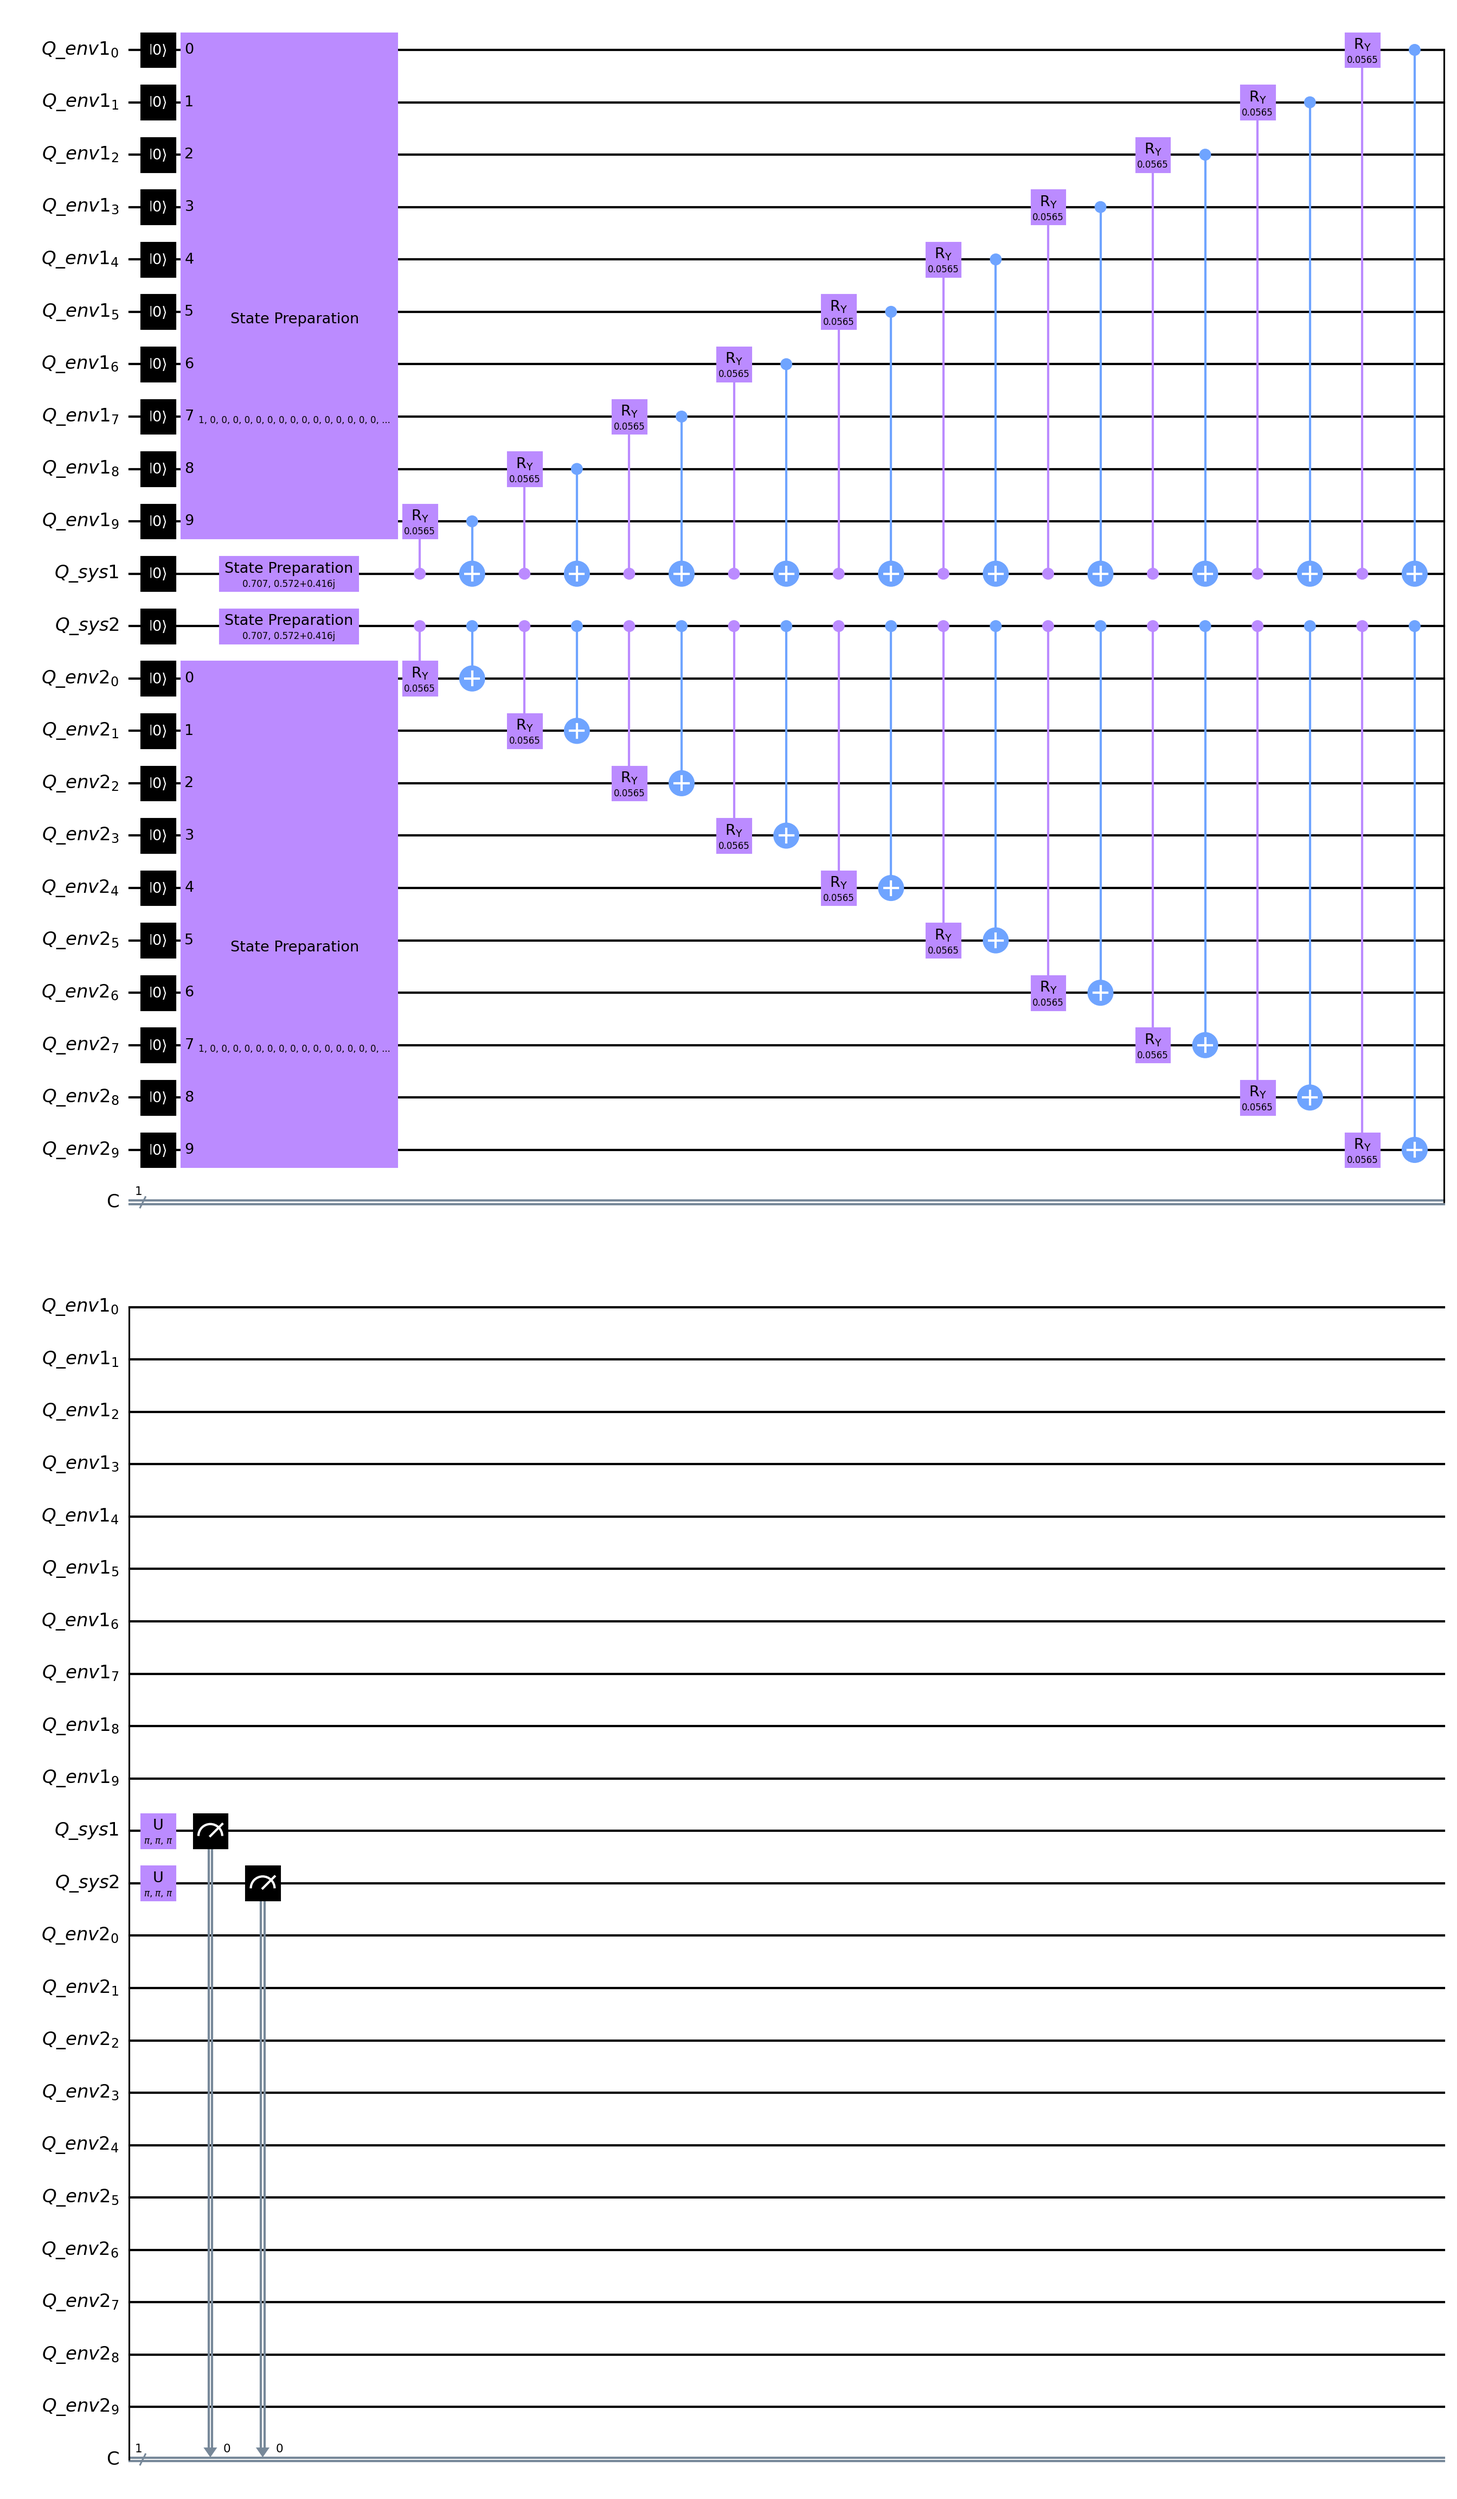
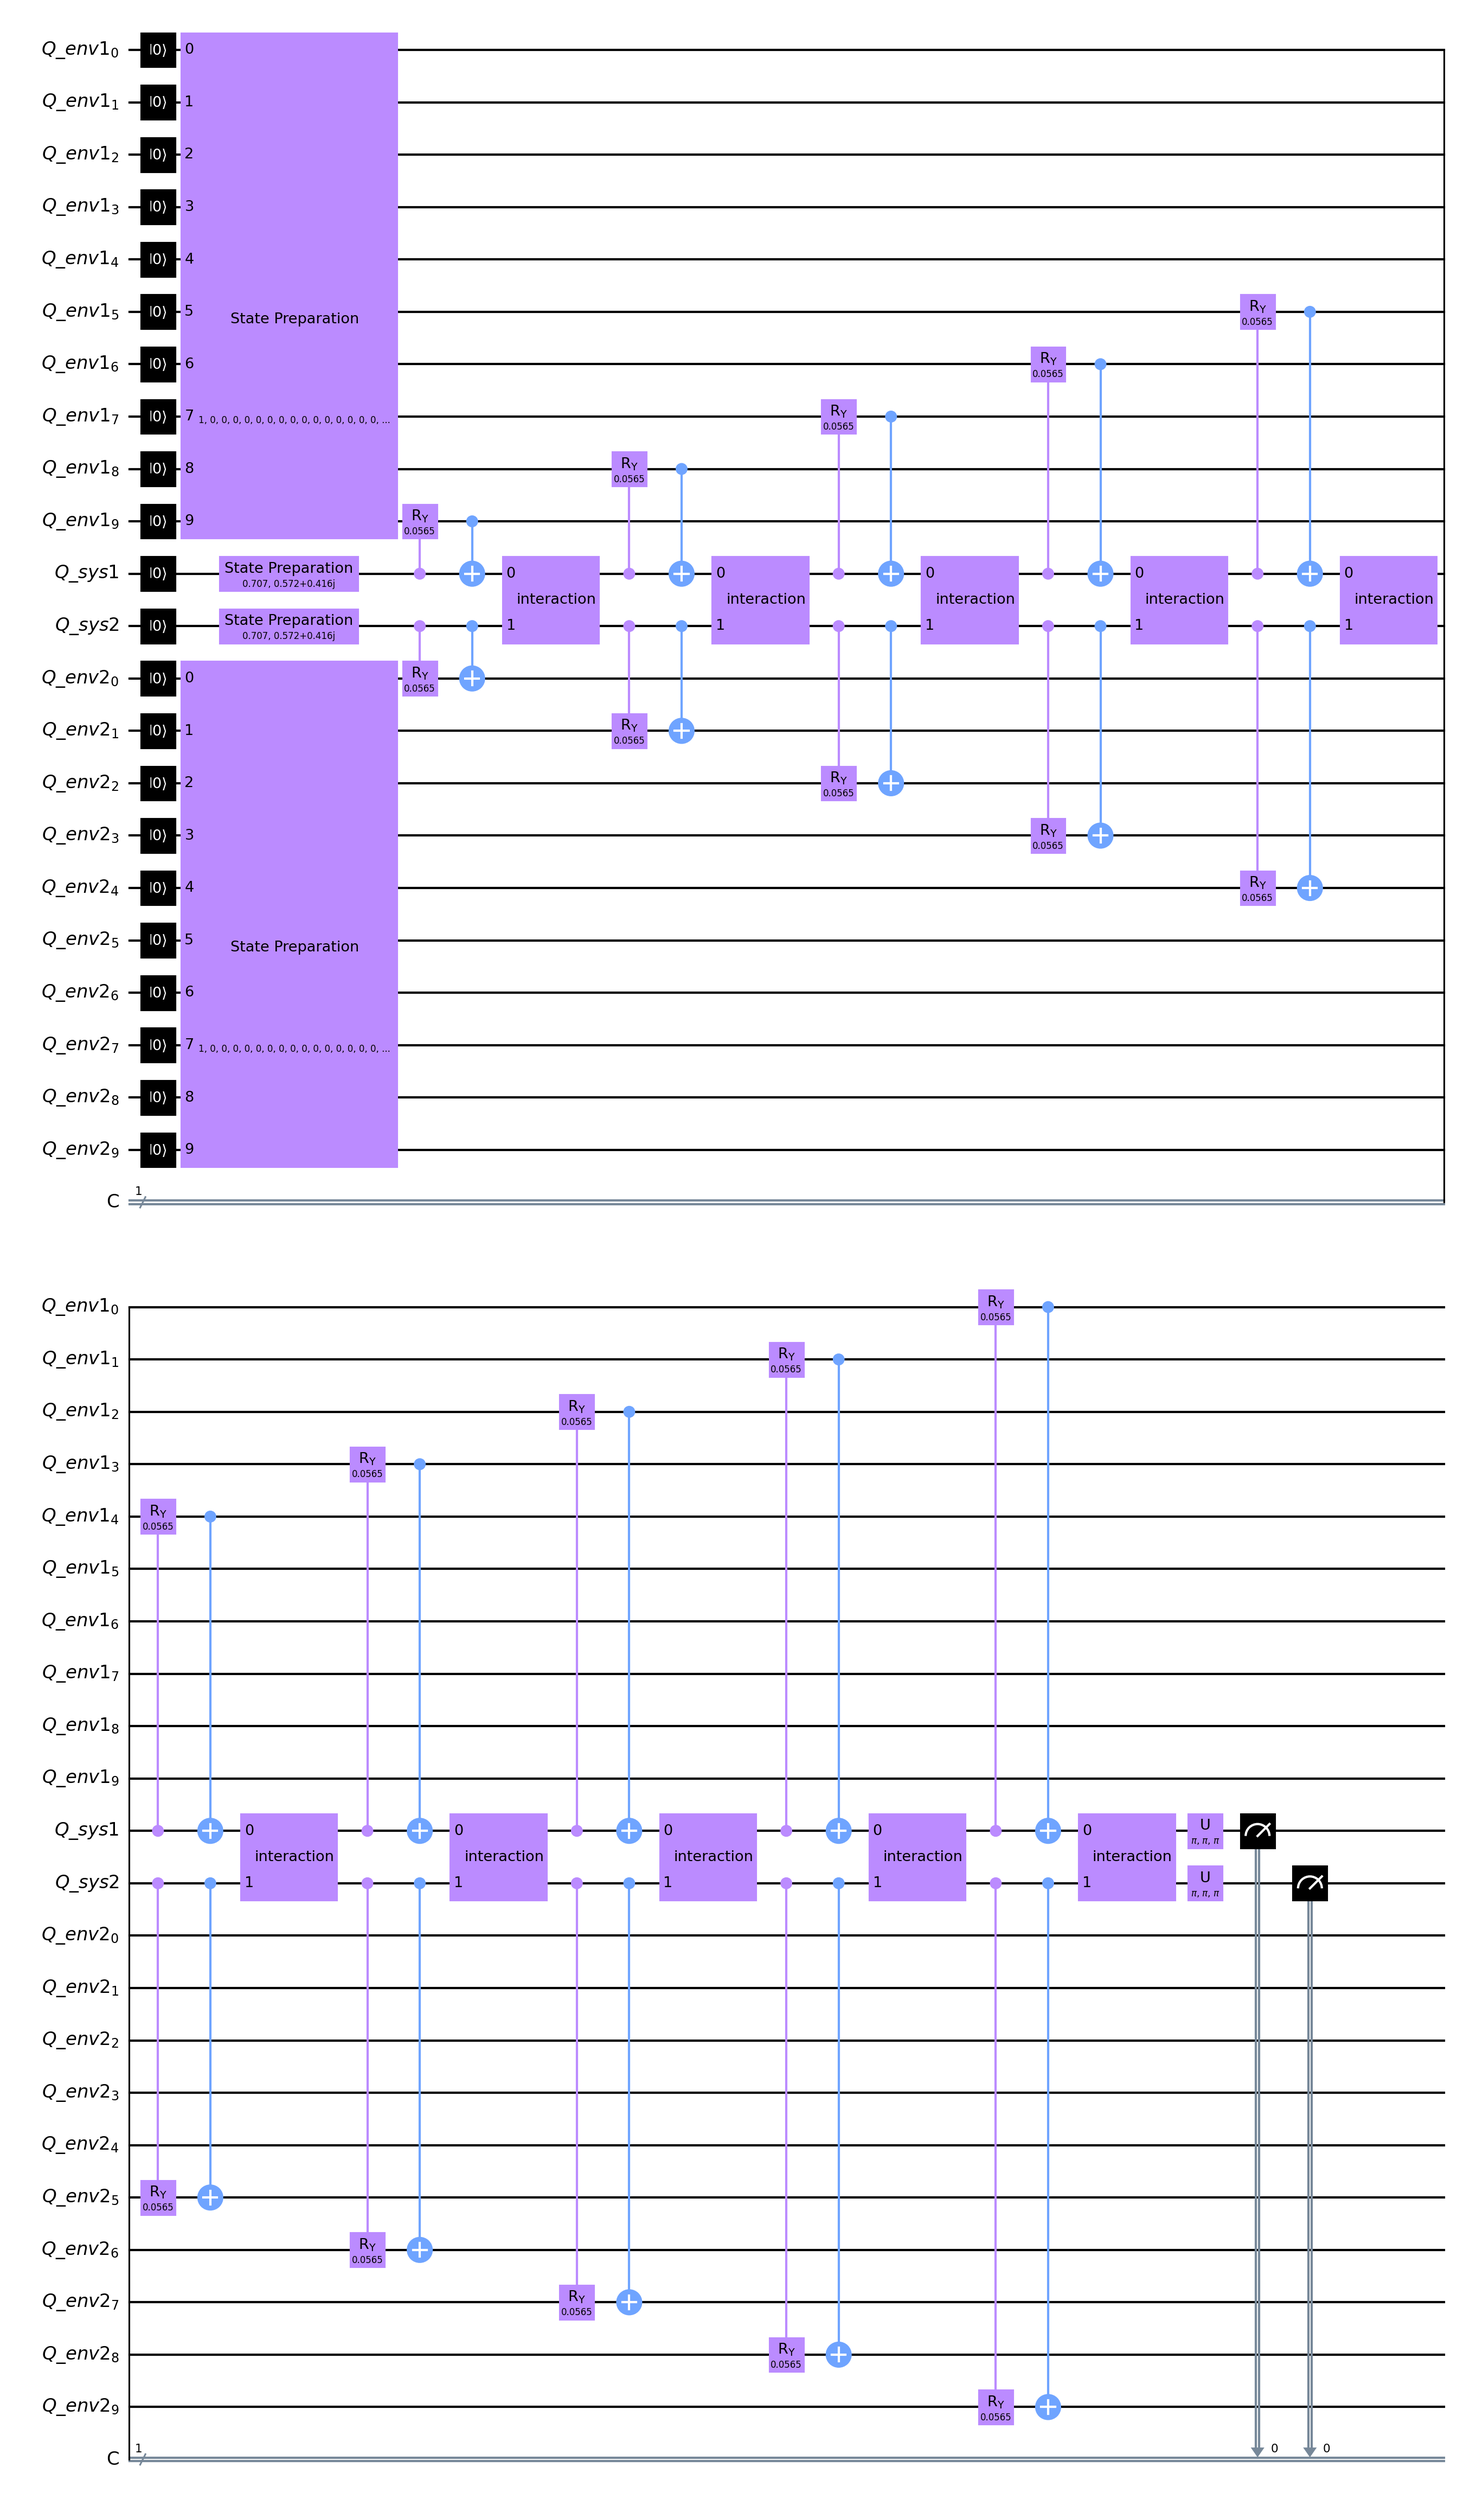
Implementation of native interaction operator in dynamic quantum circuit

diff --git a/q_memristor/memristor_coupled.py b/q_memristor/memristor_coupled.py
@@ -56,6 +56,7 @@ lambda1 = np.pi
 theta2 = np.pi
 phi2 = np.pi
 lambda2 = np.pi
+delta = np.pi
 
 pure_state = [np.cos(a), np.sin(a) * np.exp(1j * b)]
 zero_state = [1, 0]
@@ -91,12 +92,22 @@ for i in range(len(t) - 1):
     # Implementation of controlled-RY (cry) gate
     cry1 = RYGate(theta).control(1)
     cry2 = RYGate(theta).control(1)
-    # Apply cry gate to each timestep of the evolution
+    # Apply evolution process and interaction operator for each time-step
     for x in range(len(t)):
         evol_qc.append(cry1, [Q_sys1, Q_env1[len(t) - 1 - x]])
         evol_qc.append(cry2, [Q_sys2, Q_env2[x]])
         evol_qc.cnot(Q_env1[len(t) - 1 - x], Q_sys1)
         evol_qc.cnot(Q_sys2, Q_env2[x])
+        # The following are the operators that form the interaction operator
+        interaction_qc = QuantumCircuit(Q_sys1, Q_sys2, name='interaction')
+        interaction_qc.rx(np.pi/2, Q_sys1)
+        interaction_qc.rx(np.pi/2, Q_sys2)
+        interaction_qc.cnot(Q_sys1, Q_sys2)
+        interaction_qc.rz(2*delta, Q_sys2)
+        interaction_qc.cnot(Q_sys1, Q_sys2)
+        interaction_qc.rx(-np.pi/2, Q_sys1)
+        interaction_qc.rx(-np.pi/2, Q_sys2)
+        evol_qc.append(interaction_qc.to_instruction(), [Q_sys1, Q_sys2])
 
     all_qbits = Q_env1[:] + Q_sys1[:] + Q_sys2[:] + Q_env2[:]
     circuit.append(evol_qc.to_instruction(), all_qbits)
